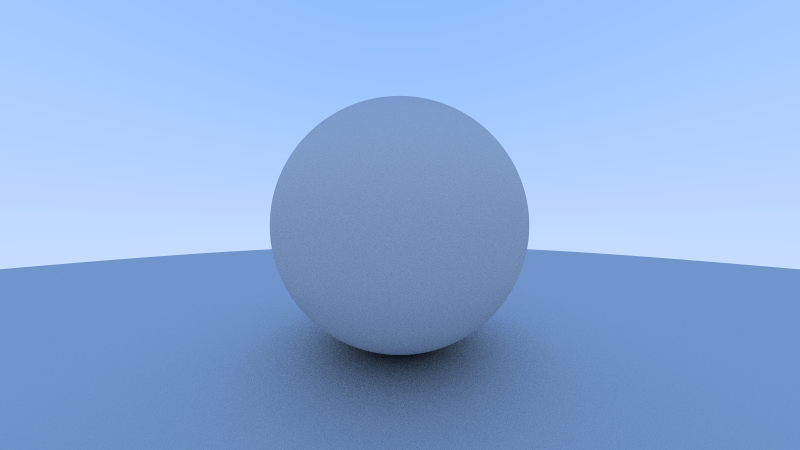
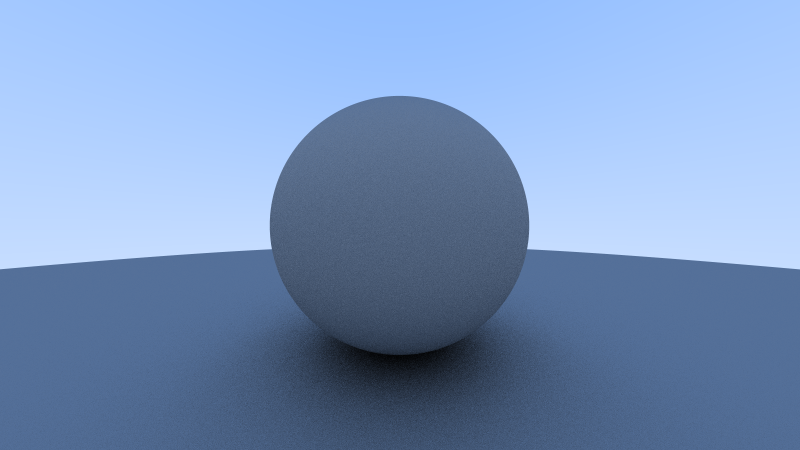
material: add material trait

diff --git a/src/render.rs b/src/render.rs
@@ -6,6 +6,7 @@ use rayon::prelude::*;
 
 use crate::{
     hit::{HitRecord, Hittable, HittableList},
+    material::ScatterRecord,
     output::output_png,
     ray::Ray,
     scene,
@@ -13,15 +14,23 @@ use crate::{
 };
 
 pub fn ray_rel_color(ray: &Ray, world: &HittableList, depth: usize) -> RelColor {
+    let black = RelColor::zeros();
+
     if depth == 0 {
-        return RelColor::zeros();
+        return black;
     }
 
     match world.hit(ray, 0.001, INFINITY) {
-        Some(HitRecord { normal, point, .. }) => {
-            // (normal + 1.) * 0.5
-            let reflected_ray = Ray::new(point, normal + Coord::random_in_unit_sphere());
-            ray_rel_color(&reflected_ray, world, depth - 1) * 0.8
+        Some(hit) => {
+            if let Some(ScatterRecord {
+                scattered_ray,
+                attenuation,
+            }) = hit.material.scatter(ray, &hit)
+            {
+                ray_rel_color(&scattered_ray, world, depth - 1).elemul(attenuation)
+            } else {
+                black
+            }
         }
         None => {
             let unit_dir = ray.dir.unit();

diff --git a/src/sphere.rs b/src/sphere.rs
@@ -1,22 +1,27 @@
 use crate::{
     hit::{HitRecord, Hittable},
+    material::Material,
     ray::Ray,
     vec3::Coord,
 };
 
-#[derive(Debug)]
-pub struct Sphere {
+pub struct Sphere<M: Material> {
     pub center: Coord,
     pub radius: f64,
+    pub material: M,
 }
 
-impl Sphere {
-    pub fn new(center: Coord, radius: f64) -> Self {
-        Self { center, radius }
+impl<M: Material> Sphere<M> {
+    pub fn new(center: Coord, radius: f64, material: M) -> Self {
+        Self {
+            center,
+            radius,
+            material,
+        }
     }
 }
 
-impl Hittable for Sphere {
+impl<M: Material> Hittable for Sphere<M> {
     fn hit(&self, ray: &Ray, t_min: f64, t_max: f64) -> Option<HitRecord> {
         let oc = ray.origin - self.center;
         let a = ray.dir.squared_length();
@@ -52,6 +57,7 @@ impl Hittable for Sphere {
                     normal,
                     t,
                     front,
+                    material: &self.material,
                 })
             } else {
                 None

diff --git a/src/material.rs b/src/material.rs
@@ -1,0 +1,45 @@
+use crate::{
+    hit::HitRecord,
+    ray::Ray,
+    vec3::{Coord, RelColor},
+};
+
+pub struct ScatterRecord {
+    pub scattered_ray: Ray,
+    pub attenuation: RelColor,
+}
+
+pub trait Material: Send + Sync {
+    fn scatter(&self, ray: &Ray, hit: &HitRecord) -> Option<ScatterRecord>;
+}
+
+#[derive(Clone)]
+pub enum DiffuseMethod {
+    Basic,
+}
+
+#[derive(Clone)]
+pub struct Diffuse {
+    pub albedo: RelColor,
+    pub method: DiffuseMethod,
+}
+
+impl Diffuse {
+    pub fn new(albedo: RelColor, method: DiffuseMethod) -> Self {
+        Self { albedo, method }
+    }
+}
+
+impl Material for Diffuse {
+    fn scatter(&self, _: &Ray, hit: &HitRecord) -> Option<ScatterRecord> {
+        let scattered_dir = match self.method {
+            DiffuseMethod::Basic => hit.normal + Coord::random_in_unit_sphere(),
+        };
+        let scattered_ray = Ray::new(hit.point, scattered_dir);
+
+        Some(ScatterRecord {
+            scattered_ray,
+            attenuation: self.albedo,
+        })
+    }
+}

diff --git a/src/scene.rs b/src/scene.rs
@@ -1,4 +1,10 @@
-use crate::{camera::Camera, hit::HittableList, sphere::Sphere, vec3::Coord};
+use crate::{
+    camera::Camera,
+    hit::HittableList,
+    material::{Diffuse, DiffuseMethod},
+    sphere::Sphere,
+    vec3::{Coord, RelColor},
+};
 
 pub struct Scene {
     pub world: HittableList,
@@ -6,8 +12,9 @@ pub struct Scene {
 }
 
 pub fn simple_scene() -> Scene {
-    let sphere = Sphere::new(Coord::new(0., 0., -1.), 0.5);
-    let ground = Sphere::new(Coord::new(0., -100.5, -1.), 100.);
+    let material = Diffuse::new(RelColor::new(0.6, 0.6, 0.6), DiffuseMethod::Basic);
+    let sphere = Sphere::new(Coord::new(0., 0., -1.), 0.5, material.clone());
+    let ground = Sphere::new(Coord::new(0., -100.5, -1.), 100., material.clone());
 
     Scene {
         world: HittableList::new(vec![Box::new(sphere), Box::new(ground)]),

diff --git a/src/hit.rs b/src/hit.rs
@@ -1,12 +1,13 @@
 use std::cmp::Ordering;
 
-use crate::{ray::Ray, vec3::Coord};
+use crate::{material::Material, ray::Ray, vec3::Coord};
 
-pub struct HitRecord {
+pub struct HitRecord<'a> {
     pub point: Coord,
     pub normal: Coord,
     pub t: f64,
     pub front: bool,
+    pub material: &'a dyn Material,
 }
 
 pub trait Hittable: Send + Sync {

diff --git a/src/main.rs b/src/main.rs
@@ -4,6 +4,7 @@ use anyhow::Result;
 
 mod camera;
 mod hit;
+mod material;
 mod misc;
 mod output;
 mod ray;
